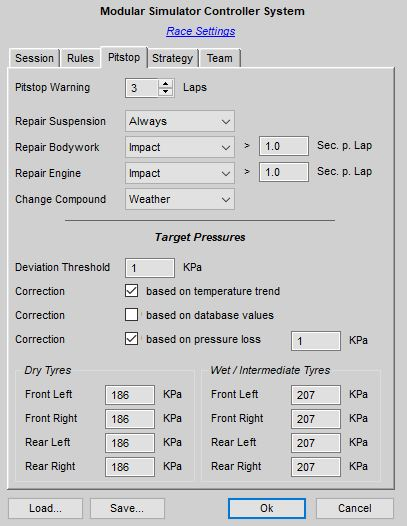
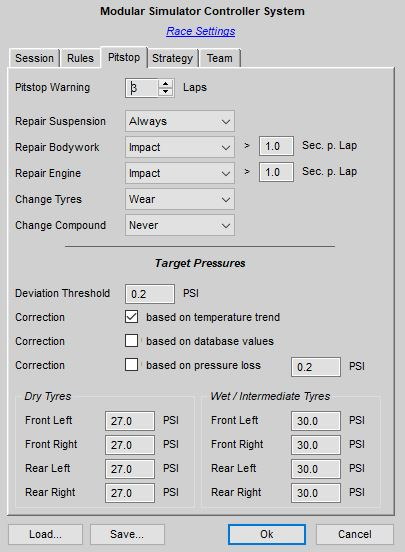
Tyre change based on tyre wear Part 3

Changed region(s): [[0.0296, 0.0, 0.9778, 1.0], [0.0296, 0.4867, 0.2667, 0.6692], [0.0296, 0.0913, 0.237, 0.1825]]

diff --git a/Docs/AI Race Engineer.md b/Docs/AI Race Engineer.md
@@ -309,7 +309,7 @@ The third tab, *Pitstop*, contains information that will be used to derive the p
 
 ![](https://github.com/SeriousOldMan/Simulator-Controller/blob/main/Docs/Images/Race%20Settings%202.JPG)
 
-The upper area with the three dropdown menus give you you control over several decisions, Jona will take for an upcoming pitstop. For the repair settings you can decide between "Never", "Always", "Threshold" and "Impact".
+The upper area with the dropdown menus give you you control over several decisions, Jona will take for an upcoming pitstop. For the repair settings you can decide between "Never", "Always", "Threshold" and "Impact".
 
   - "Threshold" will allow you to enter a value, which defines a level of damage as seconds that will be needed to repair this damage during a pitstop. If the repair duration is above this value, Jona will advise to go for a repair on the next pitstop. The data APIs of the different simulators report damage differently. Typical are values between 0% and 100%, but *Assetto Corsa Competizione*, for example, report a meaningless, although linear rising number. To support a conversion to repair duration, you must set a conversion factor for a given simulator in the [settings](https://github.com/SeriousOldMan/Simulator-Controller/wiki/Session-Settings) in the "Session Database". The conversion factor can be set independently for bodywork, suspension and engine repair, and I will provide a growing number of defaults for the different sims.
   
@@ -333,6 +333,8 @@ The following table shows, which simulator supports which damage type:
 ##### Notes
 
 (1) Supported but not reported in the data API.
+
+The choice in the "Change Tyres" dropdown menu tells Jona, how to decide, wether a given tyre should be changed at the next pitstop. "Wear", which is the default, will change a tyre, when the expected tyre wear at the end of the next stint will exceed the maximum tyre as defined by the [setting "Engineer: Threshold value for tyre wear warning"](https://github.com/SeriousOldMan/Simulator-Controller/wiki/Session-Settings) in the "Session Database".
 
 For tyre compound changes, you can choose between the triggers "Never", "Tyre Temperature" and "Weather". If you choose "Weather", Jona will advise wet tyres for light rain or worse and dry tyres for a dry track or drizzle. "Tyre Temperature" will allow you to enter a temperature threshold, where Jona will plan a tyre change, if the tyre temeprature falls outside its optimal temperature window by this amount. For dry tyres, the optimal temperature is considered around 85 Celsius and for wet tyres something around 50 Celsius. These values can be specified in the [settings](https://github.com/SeriousOldMan/Simulator-Controller/wiki/Session-Settings) in the "Session Database"
 
@@ -461,8 +463,15 @@ The following statistical models are currently implemented:
      Depending on the number of remaining laps and average fuel comsumption, Jona derives the exact amount of fuel required for the next stint. As for the tyre pressures, the lap weight of past laps may be configured for the fuel average calculation, so the remarks above on statistical window and damping factor are valid here as well.
 	 
 	 When using *Le Mans Ultimate*, the amount of fuel to be added depends on the virtual energy consumption and the so called fuel ratio. Make sure you have read the [special notes](https://github.com/SeriousOldMan/Simulator-Controller/wiki/Plugins-&-Modes#special-notes-for-le-mans-ultimate) which explains this aspect in detail. If you want to optimize the fuel ratio, once your fuel consumption is settled, you can use the voice command: "Can you recalculate the fuel ratio?"
+
+  4. Tyre change
+  
+	 Jona decides for the next pitstop, whether a tyre change is necessary. Depending on the current simulator, all tyres must be changed together or tyres may be changed independendly for each axle or even for each wheel. Several settings influence the decision:
 	 
-  4. Damage related lap time degration
+	 - Jona will decide depending on the [setting "Pitstop: Change Tyres"](https://github.com/SeriousOldMan/Simulator-Controller/wiki/Session-Settings) in the "Session Database" or in the "Race Settings", whether a tyre change is necessary. When the current simulator provides tyre wear information in the API, using a wear based decision will be the best choice.
+	 - When deciding to change a tyre based on the expected tyre wear, Jona uses [setting "Engineer: Threshold value for tyre wear warning"](https://github.com/SeriousOldMan/Simulator-Controller/wiki/Session-Settings) of the "Session Database" to determine the maximum allowed tyre wear for a given tyre.
+	 
+  5. Damage related lap time degration
   
      After Jona detects a new damage, the devlopment of your lap times are observed and Jona might suggest an adopted pitstop strategy, depending on remaining stint time and the delta time necessary for a pitstop. The underlying model is quite complex and recognizes and excludes special lap situations like pitstops, accidents, and so on, from the average laptime calculation. All laps of the current stint (except a couple of laps at the beginning) are considered by the algorithm and the average lap time incl. the standard deviation before the accident will be taken as the reference lap time. This means, that the computation will fail, if you had an accident very early in your stint, since you never had the chance to set a good reference lap.
 	 
@@ -483,7 +492,7 @@ The following statistical models are currently implemented:
 	 
 	 (1) It looks like the damage is reported by the corresponding API as an accumulated value for all different damage types. The damage will be reported by the Race Engineer as a damage to the Bodywork and only Bodywork repair will therefore automatically recommended for a pitstop. Select the other repair categories manually as needed.
 	 
-  5. Repair recommendations
+  6. Repair recommendations
   
      Based on the same model, Jona suggests repairs for the upcoming pitstop. You can configure various strategies (Repair Always, Repair Never, Repair when damage is above a given threshold, ...) using the settings tool.
 	 
@@ -517,11 +526,11 @@ The following statistical models are currently implemented:
 	 
 	   Bodywork and suspension repair will be handled automatically, but although there is an engine warning light available in the HUDs, no data is available in the API regarding the current engine state. And it looks like configurable engine repair during pitstops is not supported as well.
 	 
-  6. Tyre pressure gambling
+  7. Tyre pressure gambling
   
      Linear regression models are used here, depending on the development of ambient, track and tyre temperatures and the resulting tyre pressure development, Jona might suggest higher or lower pressures for the next pitstop than currently might be perfect as a result of a clear past trend, thereby probably giving you a good compromise for the upcoming stint.
 	 
-  7. Weather trend analysis and tyre compound recommendation
+  8. Weather trend analysis and tyre compound recommendation
   
      Beginning with Release 2.5, a weather model has been integrated in the working memory. The raw data is acquired from the simulation. For example, *Assetto Corsa Competizione*, *rFactor 2*, *Le Mans Ultimate*, *Automobilista 2* and *Project CARS 2* supply current weather information ranging from "Dry" up to full "Thunderstorm". *Le Mans Ultimate* and *Assetto Corsa Competizione* go even further and can supply a full weather forecast from now on up to 30 minnutes into the future. Based on this information and currently mounted tyres, Jona will recommend a tyre change. This recomendation will be incorporated into the plan for an upcoming pitstop depending on the settings you have chosen in the [settings dialog](https://github.com/SeriousOldMan/Simulator-Controller/wiki/AI-Race-Engineer#race-settings).
 	 

diff --git a/Docs/Session Settings.md b/Docs/Session Settings.md
@@ -81,13 +81,14 @@ This settings are generally available, although you can and have to define them 
 |            | Brake wear warning during Race           | Boolean | False                           | No  | If enabled (*True*), the Engineer will issue brake pad wear warnings during time trial sessions. |
 |            | Damage warning during Time Trial         | Boolean | False                           | No  | If enabled (*True*), the Engineer will issue damage warnings during time trial sessions. |
 |            | Pressure warning during Time Trial       | Boolean | True                            | No  | If enabled (*True*), the Engineer will issue pressure loss warnings during time trial sessions. |
-| Pitstop    | Repair Bodywork                          | Never, Always, Threshold, Impact | Impact | Yes | Defines, when the Engineer will recommend a pitstop for bodywork repairs. See the above [explanations](https://github.com/SeriousOldMan/Simulator-Controller/wiki/AI-Race-Engineer#tab-pitstop) for more information. |
+| Pitstop    | Repair Bodywork                          | Never, Always, Threshold, Impact | Impact | Yes | Defines, when the Engineer will recommend a pitstop for bodywork repairs. See the [explanations](https://github.com/SeriousOldMan/Simulator-Controller/wiki/AI-Race-Engineer#tab-pitstop) for more information. |
 |            | Threshold for Repair Bodywork            | Float | 1.0                               | Yes | Detail value, when *Repair Bodywork* is *Threshold* or *Impact*. |
-|            | Repair Suspension                        | Never, Always, Threshold, Impact | Always | Yes | Defines, when the Engineer will recommend a pitstop for suspension repairs. See the above [explanations](https://github.com/SeriousOldMan/Simulator-Controller/wiki/AI-Race-Engineer#tab-pitstop) for more information. |
+|            | Repair Suspension                        | Never, Always, Threshold, Impact | Always | Yes | Defines, when the Engineer will recommend a pitstop for suspension repairs. See the [explanations](https://github.com/SeriousOldMan/Simulator-Controller/wiki/AI-Race-Engineer#tab-pitstop) for more information. |
 |            | Threshold for Repair Suspension          | Float | 0.0                               | Yes | Detail value, when *Repair Suspension* is *Threshold* or *Impact*. |
-|            | Repair Engine                            | Never, Always, Threshold, Impact | Impact | Yes | Defines, when the Engineer will recommend a pitstop for engine repairs. See the above [explanations](https://github.com/SeriousOldMan/Simulator-Controller/wiki/AI-Race-Engineer#tab-pitstop) for more information. |
+|            | Repair Engine                            | Never, Always, Threshold, Impact | Impact | Yes | Defines, when the Engineer will recommend a pitstop for engine repairs. See the [explanations](https://github.com/SeriousOldMan/Simulator-Controller/wiki/AI-Race-Engineer#tab-pitstop) for more information. |
 |            | Threshold for Repair Engine              | Float | 1.0                               | Yes | Detail value, when *Repair Engine* is *Threshold* or *Impact*. |
-|            | Change Compound                          | Never, Temperature, Weather | Never       | Yes | Defines, when the Engineer will recommend to mount a different tyre compund at the next pitstop. See the above [explanations](https://github.com/SeriousOldMan/Simulator-Controller/wiki/AI-Race-Engineer#tab-pitstop) for more information. If *Weather* is chosen here, the rules for [weather specific tyre compounds](https://github.com/SeriousOldMan/Simulator-Controller/wiki/Tyre-Compounds#weather-and-tyre-compounds) apply. |
+|            | Change Tyres                             | Always, Wear | Wear       | Yes | Specifies, when the Engineer will change a given tyre at the next pitstop. See the [explanations](https://github.com/SeriousOldMan/Simulator-Controller/wiki/AI-Race-Engineer#tab-pitstop) for more information. If *Wear* is chosen here, which is the default, tyres will only be changed, if the expected wear at the end of the next sting will exceed the maximun wear as defined by the setting "Threshold value for tyre wear warning". |
+|            | Change Compound                          | Never, Temperature, Weather | Never       | Yes | Defines, when the Engineer will recommend to mount a different tyre compund at the next pitstop. See the [explanations](https://github.com/SeriousOldMan/Simulator-Controller/wiki/AI-Race-Engineer#tab-pitstop) for more information. If *Weather* is chosen here, the rules for [weather specific tyre compounds](https://github.com/SeriousOldMan/Simulator-Controller/wiki/Tyre-Compounds#weather-and-tyre-compounds) apply. |
 |            | Threshold for Change Compound            | Float | 0.0                               | Yes | Detail value, when *Change Compound* is *Temperature*. |
 |            | Tyre Compound Choices                    | Text  |                                   | No  | Using this setting the available tyre compounds for a given car can be defined. See the [explanation of compound rules](https://github.com/SeriousOldMan/Simulator-Controller/wiki/Tyre-Compounds#creating-own-compound-rules) for more information. |
 |            | Tyre Compound Usage                      | Text  |                                   | No  | Using this setting, the usable number of laps for a given tyre compound can be defined for a given car / track / weather combination. See the [explanation of tyre compound life](https://github.com/SeriousOldMan/Simulator-Controller/wiki/Tyre-Compounds#usable-life-of-a-tyre-compound) for more information. |

diff --git a/Docs/Updates.md b/Docs/Updates.md
@@ -35,6 +35,12 @@ Although the code, that handles all the update tasks, is integrated into *Simula
 
 Note: Some of you might want to have more control. No problem. All the files in the *Simulator Controller\Config*, *Simulator Controller\Translations*, *Simulator Controller\Grammars*, *Simulator Controller\Rules* and other folders are human readable and using a text editor and some *Diff* tool, you can do everything the automated procedure does on its own. But be sure to make a backup copy of all the files, just for the peace of mind. Attention: These files use a two-byte character set, so be sure to use an editor that can handle this.
 
+## Release 6.5.6
+
+Nothing to do.
+
+***
+
 ## Release 6.5.5
 
 To get rid of all unnecessary language specific LLM instructions in the main configuration, which may slow things down a bit, open the configuration, 1. open the Assistant Booster editor for each Assistant and close it using "Ok" and 2. go to the Driving Coach configuration page, but do nothing there. Finally save the configuration.

diff --git a/Docs/Releases.md b/Docs/Releases.md
@@ -36,7 +36,21 @@ Please also take a look at the [Update Notes](https://github.com/SeriousOldMan/S
 
 # Upcoming release
 
-Not yet planned...
+## 6.5.6.0
+
+#### Date: 10/03/25 (planned)
+
+#### Fixes
+
+  - None this time...
+  
+#### Changes
+
+  - The Race Engineer can now handled partial tyre changes based on tyre wear.
+    - A new setting has been added to "Race Settings".
+	- The same [setting](https://github.com/SeriousOldMan/Simulator-Controller/wiki/Session-Settings) in the "Session Database", of course.
+    - Please read the [new documentation](*) for more information.
+	- The current implementation is solely based on tyre wear and will be extended to be more intelligent in the next releases.
 
 # Release history
 

diff --git a/Docs/Backlog.md b/Docs/Backlog.md
@@ -19,10 +19,9 @@
 #### Assistants
   1. Better answers by the Strategist, when a pitstop cannot be recommended
   2. Support for partial tyre changes by the Engineer based on tyre wear, remaining laps, lap times, and so on
-  3. Integrate support for LAMs
-  4. Approaching corner braking point countdown by the Coach
-  5. Shift beeps by the Coach
-  6. Configurable priority for voice output between Spotter and other Assistants
+  3. Approaching corner braking point countdown by the Coach
+  4. Shift beeps by the Coach
+  5. Configurable priority for voice output between Spotter and other Assistants
   
 #### Session Database
   1. Active validation of value ranges in settings definitions
